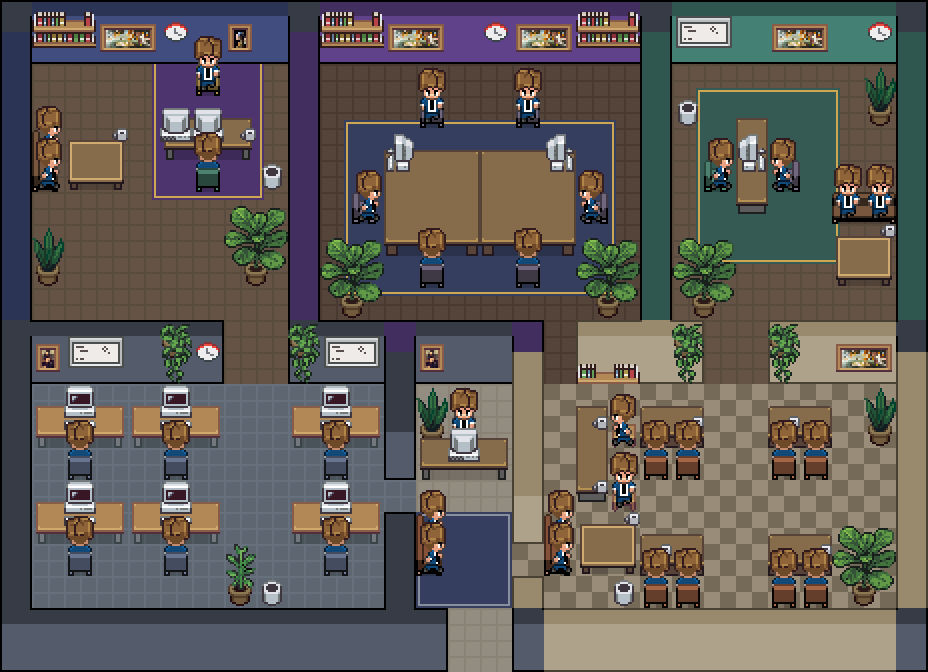
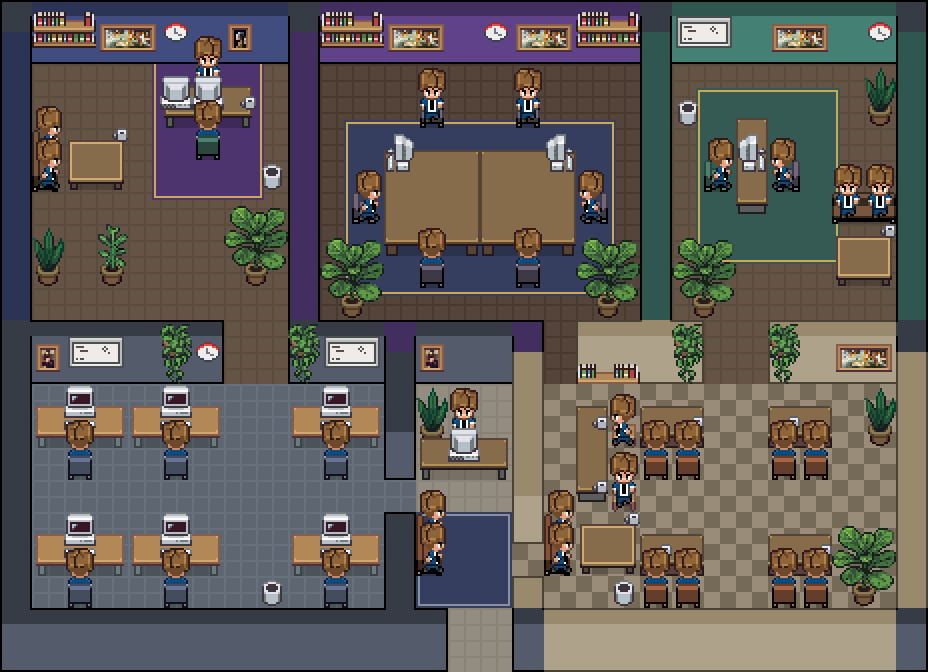
офис v11.1: правки владельца в редакторе (стол CEO выше, растение в кабинет, нижний ряд рабочей ниже)

diff --git a/layouts/office/spec.py b/layouts/office/spec.py
@@ -1,4 +1,7 @@
-# OFFICE v11 — 29 x 20 = 580. УКАЗ ВЛАДЕЛЬЦА 30.09: «сделай офис прямо как нарисовано» — картинка = карточка архива a15
+# OFFICE v11.1 — 29 x 20 = 580. = v11 + ручные правки владельца в редакторе 30.09 ~13:45-14:00 (15 предметов сдвинуты, uid те же):
+#   CEO: стол, оба монитора, кружка и зелёное кресло на ряд выше; растение PLANT из рабочей (7,16) → CEO (3,6);
+#   рабочая: нижний ряд столов/мониторов/кресел на ряд ниже (столы 15, кресла 17). v11 → office_spec_v11.py.
+# (v11) УКАЗ ВЛАДЕЛЬЦА 30.09: «сделай офис прямо как нарисовано» — картинка = карточка архива a15
 # «v7 с вашими правками ресепшна» (живой файл 14.09 18:54, бэкап layout_backup_2026-09-14_191359.json). v10 → office_spec_v10.py.
 # Это v7 (ниже её описание) + ручные правки владельца от 14.09, перенесённые один в один:
 #   * дверь зал→ресепшн (14-15, ряд 10) ЗАКРЫТА;
@@ -82,8 +85,8 @@ FURNITURE = [
   # ===== КАБИНЕТ CEO (левый, cols 1-8) — доработан: диван на двоих слева, рабочая зона справа сверху
   ('DOUBLE_BOOKSHELF', 1, -1), ('LARGE_PAINTING', 3, -1), ('CLOCK', 5, -1), ('SMALL_PAINTING_2', 7, -1),
   ('CUSHIONED_CHAIR_FRONT', 6, 1, GOLD_SEAT),
-  ('DESK_FRONT', 5, 2, WOOD_DARK), ('PC_BACK', 5, 2), ('PC_BACK', 6, 2), ('COFFEE', 7, 3),
-  ('CUSHIONED_CHAIR_BACK', 6, 4, VELVET_GRN),
+  ('DESK_FRONT', 5, 1, WOOD_DARK), ('PC_BACK', 5, 1), ('PC_BACK', 6, 1), ('COFFEE', 7, 2),   # правка владельца 30.09: на ряд выше
+  ('CUSHIONED_CHAIR_BACK', 6, 3, VELVET_GRN),
   ('SOFA_SIDE', 1, 3, COGNAC), ('COFFEE_TABLE', 2, 3, WOOD_DARK), ('COFFEE', 3, 3),
   ('LARGE_PLANT', 7, 5), ('PLANT_2', 1, 6), ('BIN', 8, 4),
   # ===== ЗАЛ (cols 10-19) — как было
@@ -107,10 +110,10 @@ FURNITURE = [
   ('DESK_FRONT', 1, 11), ('PC_FRONT_OFF', 2, 11), ('CUSHIONED_CHAIR_BACK', 2, 13, STAFF_SEAT),
   ('DESK_FRONT', 4, 11), ('PC_FRONT_OFF', 5, 11), ('CUSHIONED_CHAIR_BACK', 5, 13, STAFF_SEAT),
   ('DESK_FRONT', 9, 11), ('PC_FRONT_OFF', 10, 11), ('CUSHIONED_CHAIR_BACK', 10, 13, STAFF_SEAT),
-  ('DESK_FRONT', 1, 14), ('PC_FRONT_OFF', 2, 14), ('CUSHIONED_CHAIR_BACK', 2, 16, STAFF_SEAT),
-  ('DESK_FRONT', 4, 14), ('PC_FRONT_OFF', 5, 14), ('CUSHIONED_CHAIR_BACK', 5, 16, STAFF_SEAT),
-  ('DESK_FRONT', 9, 14), ('PC_FRONT_OFF', 10, 14), ('CUSHIONED_CHAIR_BACK', 10, 16, STAFF_SEAT),
-  ('PLANT', 7, 16), ('BIN', 8, 17),
+  ('DESK_FRONT', 1, 15), ('PC_FRONT_OFF', 2, 15), ('CUSHIONED_CHAIR_BACK', 2, 17, STAFF_SEAT),     # правка владельца 30.09: нижний ряд на ряд ниже
+  ('DESK_FRONT', 4, 15), ('PC_FRONT_OFF', 5, 15), ('CUSHIONED_CHAIR_BACK', 5, 17, STAFF_SEAT),
+  ('DESK_FRONT', 9, 15), ('PC_FRONT_OFF', 10, 15), ('CUSHIONED_CHAIR_BACK', 10, 17, STAFF_SEAT),
+  ('PLANT', 3, 6), ('BIN', 8, 17),   # растение владелец перенёс из рабочей (7,16) в кабинет CEO (3,6); в списке на прежнем месте
   # ===== РЕСЕПШН (cols 13-15) — стойка во всю ширину, диван владельца, ковёр; стойка с монитором на ряд выше (правка владельца 14.09)
   ('SMALL_PAINTING', 13, 9),
   ('PLANT_2', 13, 11),
